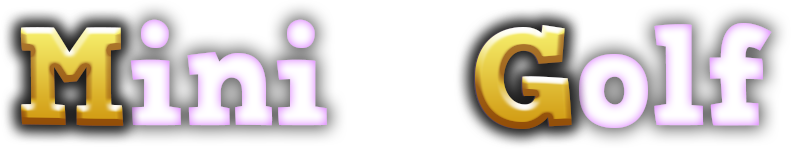
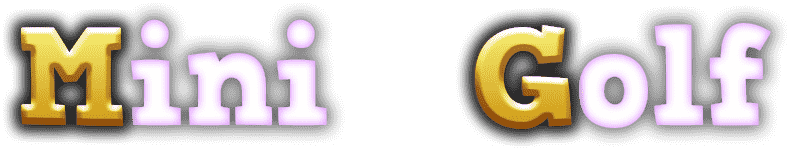
Reduced all photo image sizes

diff --git a/index.html b/index.html
@@ -4,7 +4,7 @@
   	<meta charset="utf-8">
     <title>Mini-Golf RPG (MGRPG) </title>
     <!-- favicon here -->
-    <link rel="shortcut icon" type="image/png" href="img/favicon.png"/>
+    <link rel="shortcut icon" type="image/png" href="img/favicon.jpg"/>
 	<!-- style sheets here -->
 	<link rel="stylesheet" href="css/index.css">
 	<link rel="manifest" href="manifest.webmanifest">

diff --git a/css/index.css b/css/index.css
@@ -1,6 +1,6 @@
 html
 {
-	background-image: url("../img/background.png");
+	background-image: url("../img/background.jpg");
 	background-color: #0b0b0b;
 	 -webkit-background-size: 100%; 
     -moz-background-size: 100%; 
